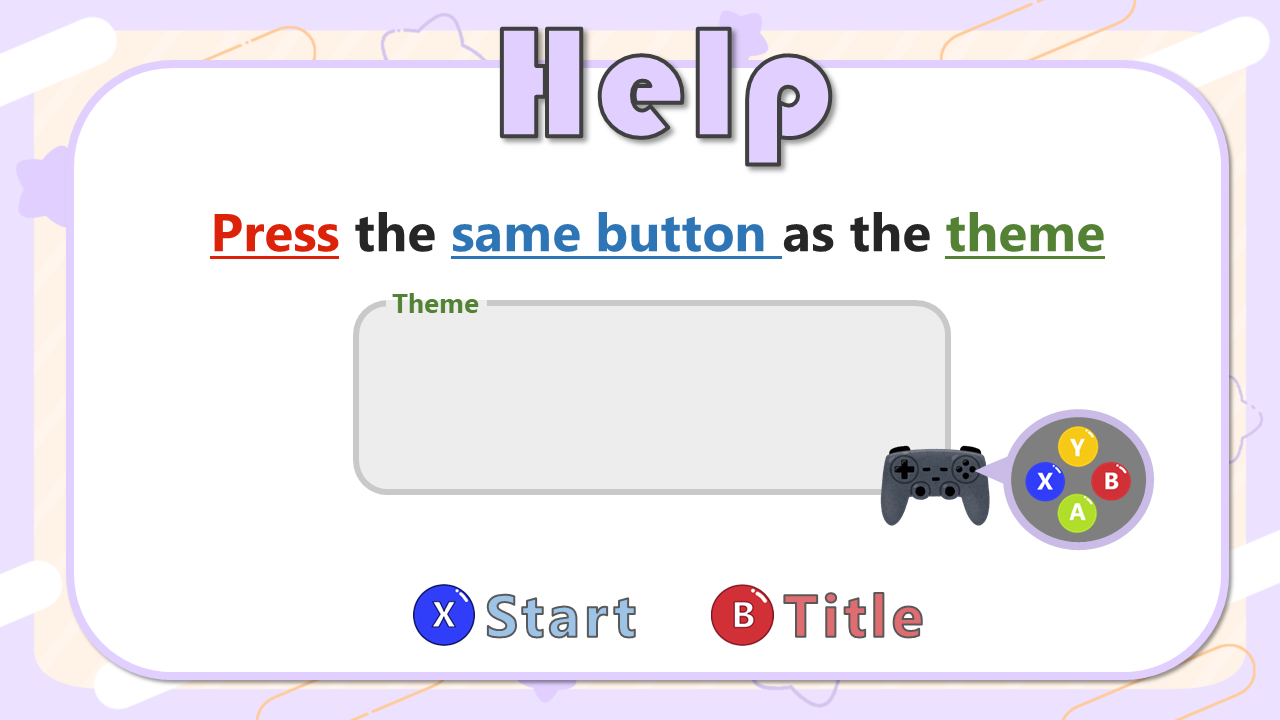
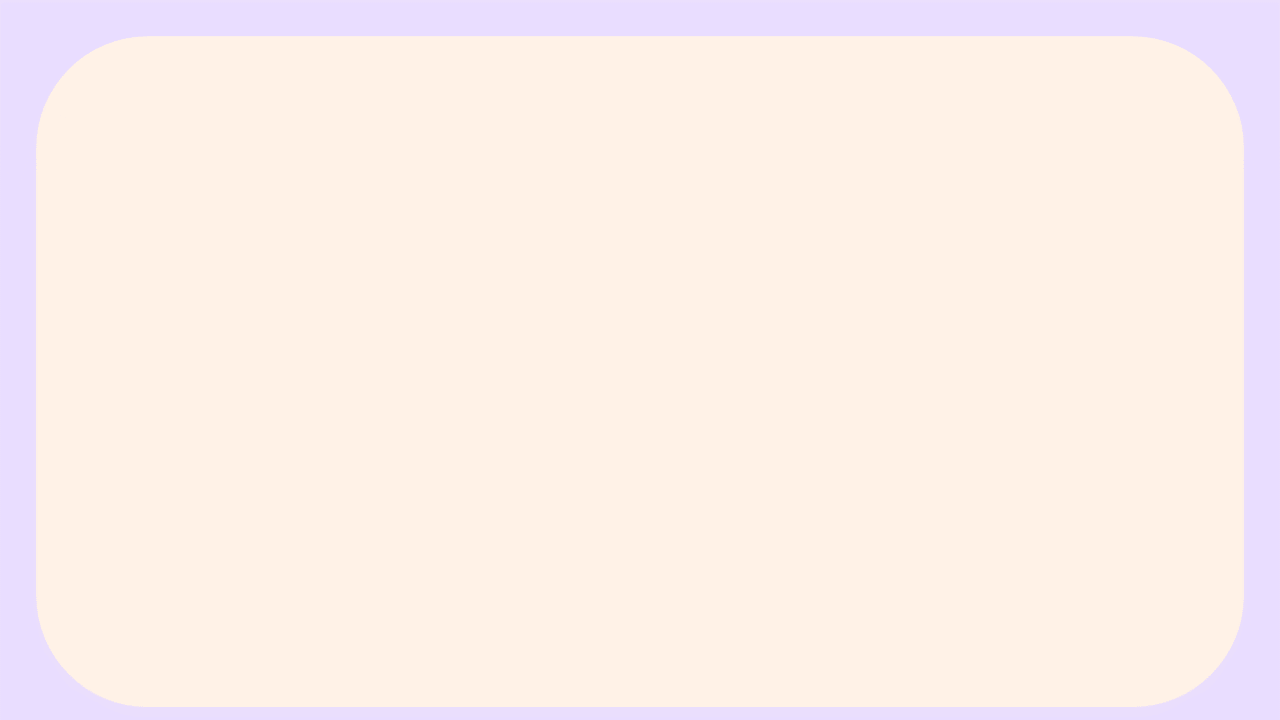
add help img

diff --git a/tgs_alone/Scene/HelpScene.cpp b/tgs_alone/Scene/HelpScene.cpp
@@ -3,7 +3,7 @@
 #include "TitleScene.h"
 #include "DxLib.h"
 
-HelpScene::HelpScene():back_img(0),cnt(0),anim(0),cnt_flg(false)
+HelpScene::HelpScene():cnt(0),anim(0),cnt_flg(false)
 {
 	for (int i = 0; i < 4; i++)
 	{
@@ -11,6 +11,11 @@ HelpScene::HelpScene():back_img(0),cnt(0),anim(0),cnt_flg(false)
 		{
 			button_img[i][j] = 0;
 		}
+	}
+
+	for (int i = 0; i < 6; i++)
+	{
+		back_img[i] = 0;
 	}
 }
 
@@ -20,7 +25,12 @@ HelpScene::~HelpScene()
 
 void HelpScene::Initialize()
 {
-	back_img = LoadGraph("Resource/images/help/help.png");
+	back_img[0] = LoadGraph("Resource/images/help/help.png");
+	back_img[1] = LoadGraph("Resource/images/help/help1.png");
+	back_img[2] = LoadGraph("Resource/images/help/helpm.png");
+	back_img[3] = LoadGraph("Resource/images/help/star2.png");
+	back_img[4] = LoadGraph("Resource/images/help/line.png");
+	back_img[5] = LoadGraph("Resource/images/help/ui.png");
 
 	button_img[0][0] = LoadGraph("Resource/images/main/button/Abotton0.png");
 	button_img[0][1] = LoadGraph("Resource/images/main/button/Abotton5.png");
@@ -95,7 +105,17 @@ eSceneType HelpScene::Update()
 
 void HelpScene::Draw() const
 {
-	DrawGraph(0, 0, back_img, TRUE);
+	DrawGraph(0, 0, back_img[0], TRUE);
+
+	DrawGraph(0, 0, back_img[3], TRUE);
+	DrawGraph(0, 0, back_img[4], TRUE);
+
+	DrawGraph(0, 0, back_img[1], TRUE);
+	DrawGraph(0, 0, back_img[2], TRUE);
+	DrawGraph(0, 0, back_img[5], TRUE);
+
+	
+
 
 	SetDrawBlendMode(DX_BLENDMODE_ALPHA, 122);
 	for (int i = 0; i < 4; i++)
@@ -219,7 +239,11 @@ void HelpScene::Draw() const
 
 void HelpScene::Finalize()
 {
-	DeleteGraph(back_img);
+	for (int i = 0; i < 6; i++)
+	{
+		DeleteGraph(back_img[i]);
+	}
+
 
 	for (int i = 0; i < 4; i++)
 	{

diff --git a/tgs_alone/Scene/HelpScene.h b/tgs_alone/Scene/HelpScene.h
@@ -5,7 +5,7 @@
 class HelpScene : public SceneBase
 {
 private:
-	int back_img;    // 背景画像 
+	int back_img[6];    // 背景画像 
 	int button_img[4][6]; // ボタン画像
 	int cnt; // カウント用
 	bool cnt_flg;
